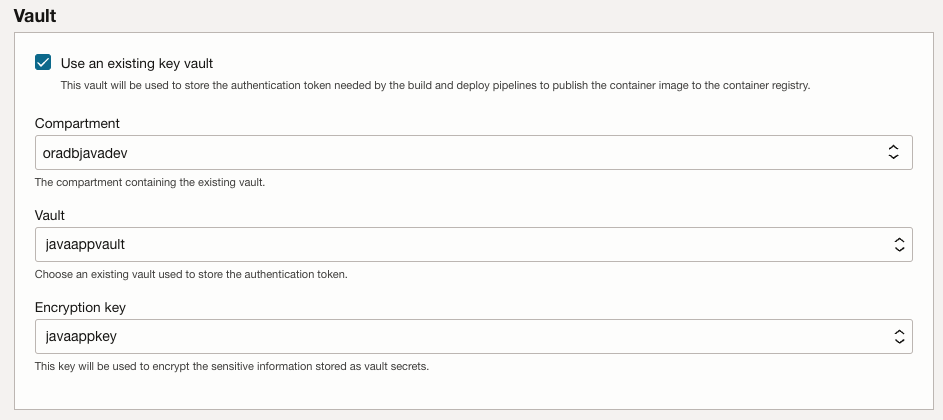
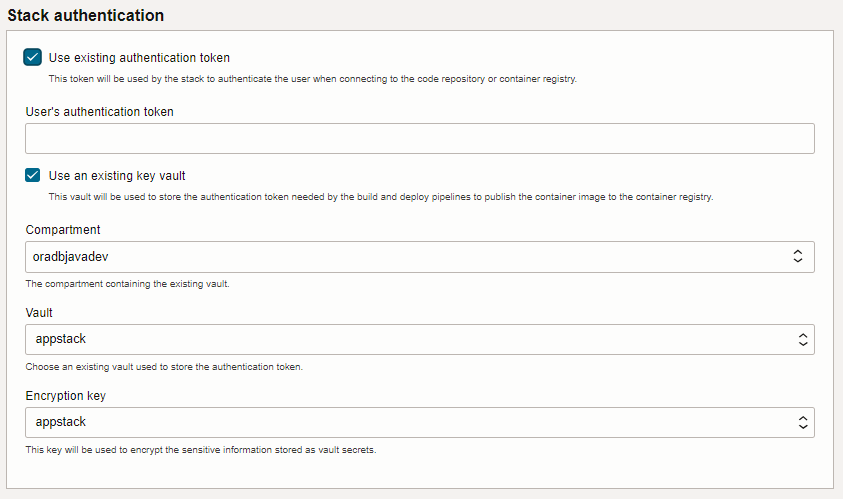
Updated usage instructions and screen shot

Changed region(s): [[0.0, 0.0, 1.0, 0.9905], [0.9253, 0.65, 0.9561, 0.7119], [0.9253, 0.3405, 0.9561, 0.3714]]

diff --git a/usage_instructions.md b/usage_instructions.md
@@ -25,6 +25,7 @@ The stack supports different kinds of deployments: *source code* deployment, jav
        - WAR: If your application is packaged as a Web Archive. The WAR will be deployed in a Tomcat Server. This Tomcat Server will be started using the JVM Options provided in the "Other Parameters" section.
 
   - If the *application source* is *source code*: 
+       - **DevOps compartment:** select the compartment containing the code repository
        - **DevOps repository name (OCID):** OCID of the repository containing the *source code* of the application
        - **Branch used for build/deployment:** name of the branch to build a deploy. A build trigger will be added so that the application is built and deployed each time a change is made to this branch.
        - **Application build command:** command used to build the application. This command will be used by the build pipeline to build the application.
@@ -35,6 +36,27 @@ The stack supports different kinds of deployments: *source code* deployment, jav
   - If the *application source* is a *container image*:
        - **Full path to the image in the container registry**
        - **Exposed port:** port exposed by the container image
+
+## Stack authentication
+
+![](./screenshots/7_Vault.png)
+
+An **authentication token** is used by the stack to authenticate the user when connecting to the code repository or container registry. This token can either be provided or created by the stack. **Note** that there is a limit on the maximum number of authentication tokens a user can have and that once the token is generated it will not be displayed again.
+
+To use an existing token:
+  - **User's authentication token:** provide the user's authentication token
+
+A **Vault** is used to store sensitive information such as authentication tokens and passwords. The stack can either use an existing vault (which can be in a different compartment) or create a new one.
+
+To use an existing key vault :
+
+ - **Compartment:** select the compartment containing the vault
+ - **Vault:** select the vault you would like to use
+ - **Encryption key:** select a AES encryption key to use
+
+To create a new vault:
+
+ - **Key vault display name:** user-friendly name of the vault to create. The vault will be created in the same compartment as the rest of the resources created by the stack.
 
 ## Application Performance Monitoring (APM)
 
@@ -107,29 +129,13 @@ If the *application source* is a *container image*, the image must be configured
  - **Private key:** The certificate's private key (PEM format)
  - **CA certificate:** The CA certificate (PEM format, same as the certificate for self-signed certificates)
 
-
-## Vault
-
-![](./screenshots/7_Vault.png)
-
-A Vault is used to store sensitive information such as authentication tokens and passwords. The stack can either use an existing vault (which can be in a different compartment) or create a new one.
-
-To use an existing key vault :
-
- - **Compartment:** select the compartment containing the vault
- - **Vault:** select the vault you would like to use
- - **Encryption key:** select a AES encryption key to use
-
-To create a new vault:
-
- - **Key vault display name:** user-friendly name of the vault to create. The vault will be created in the same compartment as the rest of the resources created by the stack.
-
 ## Application URL
 
 ![](./screenshots/8_ApplicationURL.png)
 
 This is optional but if you have a DNS domain that's managed in OCI you can configure the stack to add a new record (hostname) for your application. A certificate will also be needed so that the application can be accessed through HTTPS.
 
+ - **DNS and Certificate compartement:** select the compartment containing the DNS Zone and the Certificate
  - **DNS zone:** Domain name in which the hostname will be created.
  - **Hostname:** The hostname will be created on the selected Zone and will resolve to the load balancer's IP address.
  - **Certificate OCID:** certificate for the application URL
